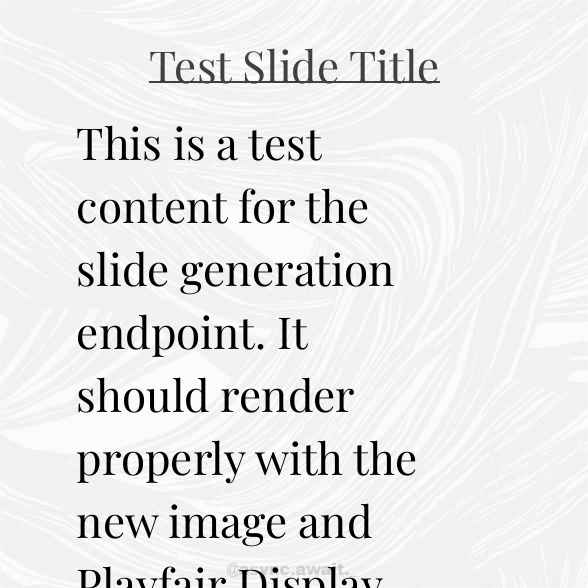
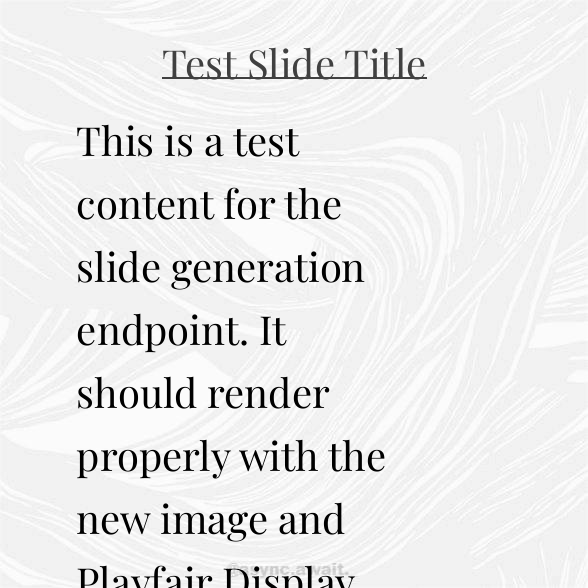
test : slide generation micrservice

diff --git a/bin/test_slide_generation_endpoint.js b/bin/test_slide_generation_endpoint.js
@@ -28,7 +28,7 @@ async function testSlideGenerationEndpoint() {
       }
     );
 
-    // Save the generated image
+    // Save the generated image (or error response)
     const outputPath = path.join(__dirname, "..", "test_slide_output.png");
     fs.writeFileSync(outputPath, response.data);
 
@@ -37,12 +37,23 @@ async function testSlideGenerationEndpoint() {
     console.log(
       `📊 Image size: ${(response.data.length / 1024).toFixed(2)} KB`
     );
+    console.log(`📋 Response headers:`, response.headers);
   } catch (error) {
     console.error("❌ Slide generation test failed:", error.message);
 
     if (error.response) {
       console.error("Response status:", error.response.status);
-      console.error("Response data:", error.response.data);
+      console.error("Response headers:", error.response.headers);
+
+      // Save error response for debugging
+      const errorPath = path.join(__dirname, "..", "test_slide_error.html");
+      fs.writeFileSync(errorPath, error.response.data);
+      console.error(`📁 Error response saved to: ${errorPath}`);
+      console.error(
+        `📊 Error response size: ${(error.response.data.length / 1024).toFixed(
+          2
+        )} KB`
+      );
     }
   }
 }

diff --git a/slide-generation/app.py b/slide-generation/app.py
@@ -93,22 +93,22 @@ def generate():
     # First try Playfair Display fonts in assets directory
     assets_dir = os.path.join(os.path.dirname(__file__), 'assets')
     local_font_options = [
-        (os.path.join(assets_dir, "PlayfairDisplay-Regular.ttf"), 40),  # Title font (reduced by 4px from 44)
-        (os.path.join(assets_dir, "PlayfairDisplay-Regular.ttf"), 33),  # Content font (reduced by 6px from 39)
+        (os.path.join(assets_dir, "PlayfairDisplay-Regular.ttf"), 36),  # Title font (reduced by 4px from 40)
+        (os.path.join(assets_dir, "PlayfairDisplay-Regular.ttf"), 26),  # Content font (reduced by 7px from 33)
     ]
     
     # Try different Playfair Display font paths and names
     system_font_options = [
-        ("PlayfairDisplay-Regular.ttf", 40),  # Local assets (reduced by 4px)
-        ("PlayfairDisplay-Regular.ttf", 33),  # Local assets (reduced by 6px)
-        ("timesbd.ttf", 40),           # Windows standard fallback (reduced by 4px)
-        ("times.ttf", 33),             # Windows standard fallback (reduced by 6px)
-        ("Times New Roman Bold.ttf", 40),  # Alternative name fallback (reduced by 4px)
-        ("Times New Roman.ttf", 33),       # Alternative name fallback (reduced by 6px)
-        ("/usr/share/fonts/truetype/msttcorefonts/Times_New_Roman_Bold.ttf", 40),  # Linux fallback (reduced by 4px)
-        ("/usr/share/fonts/truetype/msttcorefonts/Times_New_Roman.ttf", 33),       # Linux fallback (reduced by 6px)
-        ("/System/Library/Fonts/Times New Roman Bold.ttf", 40),  # macOS fallback (reduced by 4px)
-        ("/System/Library/Fonts/Times New Roman.ttf", 33),       # macOS fallback (reduced by 6px)
+        ("PlayfairDisplay-Regular.ttf", 36),  # Local assets (reduced by 4px)
+        ("PlayfairDisplay-Regular.ttf", 26),  # Local assets (reduced by 7px)
+        ("timesbd.ttf", 36),           # Windows standard fallback (reduced by 4px)
+        ("times.ttf", 26),             # Windows standard fallback (reduced by 7px)
+        ("Times New Roman Bold.ttf", 36),  # Alternative name fallback (reduced by 4px)
+        ("Times New Roman.ttf", 26),       # Alternative name fallback (reduced by 7px)
+        ("/usr/share/fonts/truetype/msttcorefonts/Times_New_Roman_Bold.ttf", 36),  # Linux fallback (reduced by 4px)
+        ("/usr/share/fonts/truetype/msttcorefonts/Times_New_Roman.ttf", 26),       # Linux fallback (reduced by 7px)
+        ("/System/Library/Fonts/Times New Roman Bold.ttf", 36),  # macOS fallback (reduced by 4px)
+        ("/System/Library/Fonts/Times New Roman.ttf", 26),       # macOS fallback (reduced by 7px)
     ]
     
     all_font_options = local_font_options + system_font_options
@@ -147,7 +147,7 @@ def generate():
     title_y = 0.06 * height  # 6% top margin (increased by 1%)
     draw.text((title_x, title_y), title, fill=(64, 64, 64), font=font_title)
     # Underline title
-    underline_y = title_y + 40 + 2  # Below the text (updated for new font size)
+    underline_y = title_y + 36 + 4  # Below the text (updated for new font size and moved 1px down)
     draw.line([title_x, underline_y, title_x + title_width, underline_y], fill=(64, 64, 64), width=2)
     
     # Content: dark black, left-aligned, wrap text, 15% top margin
